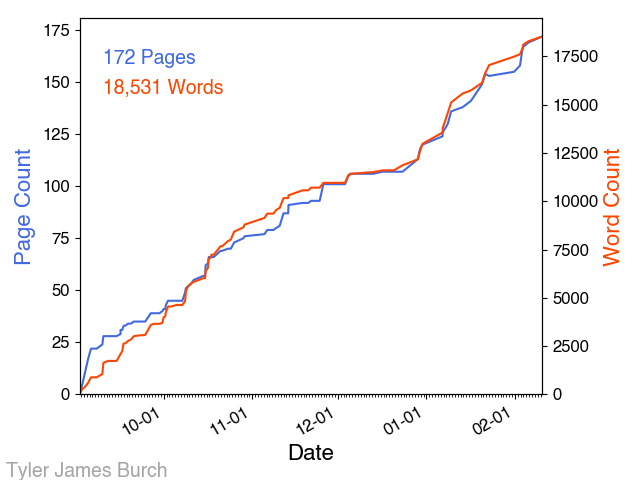
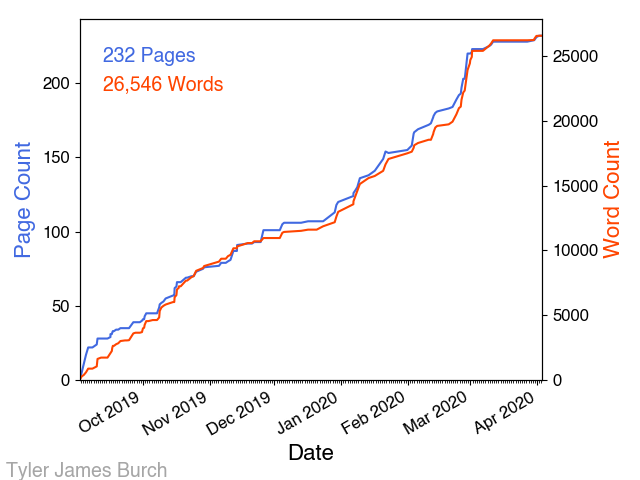
update progress plot

diff --git a/_other/dissertationProgress.md b/_other/dissertationProgress.md
@@ -5,6 +5,6 @@ title: "Dissertation Progress"
 #tags: [misc]
 ---
 
-Last Update: Mon Feb 10 16:05:07 CST 2020
+Last Update: Sat Apr  4 14:29:44 CDT 2020
 
 <img src="/blogimages/dissertationProgress.png" alt="" class="center" border="5" style="width:60%;"/>
